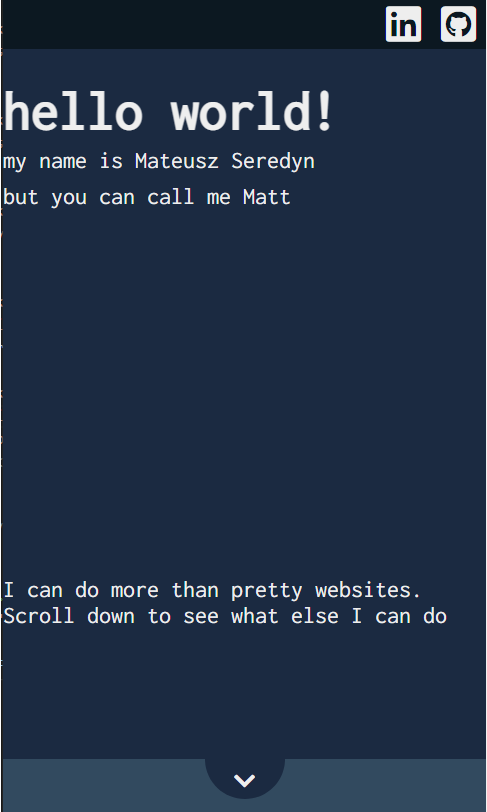
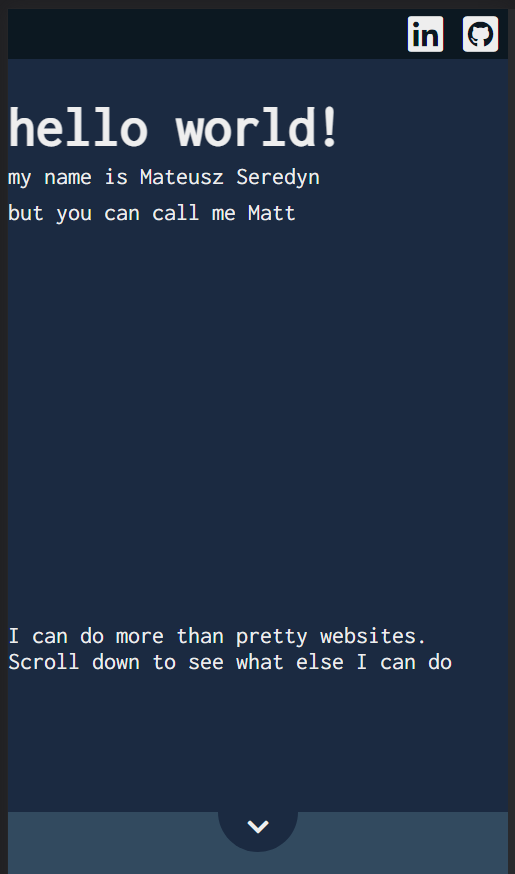
Finalised Readme with updated information and screenshots

Changed region(s): [[0.0, 0.0, 1.0, 1.0]]

diff --git a/README.md b/README.md
@@ -1,9 +1,36 @@
-# web-portfolio
-Hello, my name is Mateusz Seredyn. You can call me Matt.
-This is the github repo for my first web portfolio.
-Feel free to give me any suggestions!
+# A Web Portfolio
+### By Mateusz Seredyn
+<br />
 
-![alt text](./screenshots/screenshot.png)
+About
+=====
+A **mobile first** web portfolio designed and developed by myself. 
+<br />The site has been developed and written in 3 languages:
+* HTML
+* CSS (SCSS)
+* JavaScript
 
-Here's a link to the figma design:
-https://www.figma.com/file/PIcxeYnBP6m66XKdis36IE/Portfolio_design_1?node-id=0%3A1
+The styling was developed off an origin concept made on [figma](https://www.figma.com/file/PIcxeYnBP6m66XKdis36IE/Portfolio_design_1?node-id=0%3A1).
+
+<br />
+
+Credits
+=======
+
+Font visible on the site is the Open Source, Google Font: `Inconsolata`.
+<br />Available from [Google Fonts](https://fonts.google.com/specimen/Inconsolata) or [Github](github.com/googlefonts/inconsolata)
+<br /><br />
+All Icons on the site originate from [font Awesome]()
+
+<br />
+<br />
+
+Screenshots
+===========
+*Mobile View*<br />
+![mobile Screenshot](./screenshots/screenshot.png)
+<br />*Desktop View*<br />
+![Desktop Screenshot](./screenshots/screenshot_desktop.png)
+
+
+
